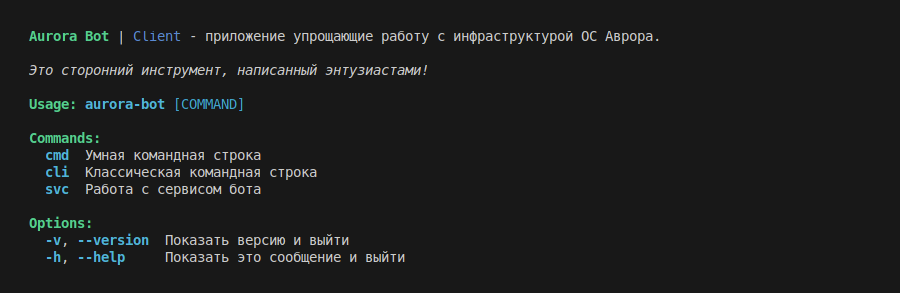
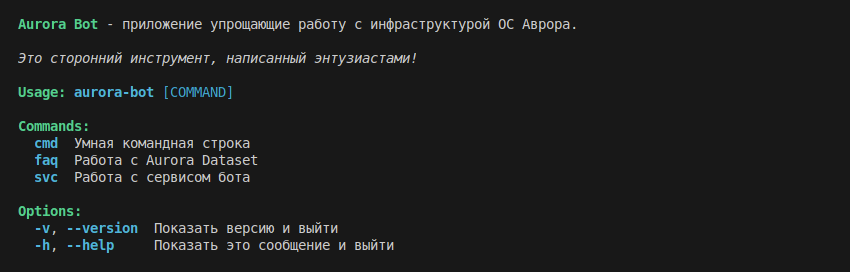
Update interface, hide classic cli.

diff --git a/README.md b/README.md
@@ -1,4 +1,4 @@
-# Aurora Bot | Client
+# Aurora Bot
 
 > The application is under development, subscribe and like ⭐!
 
